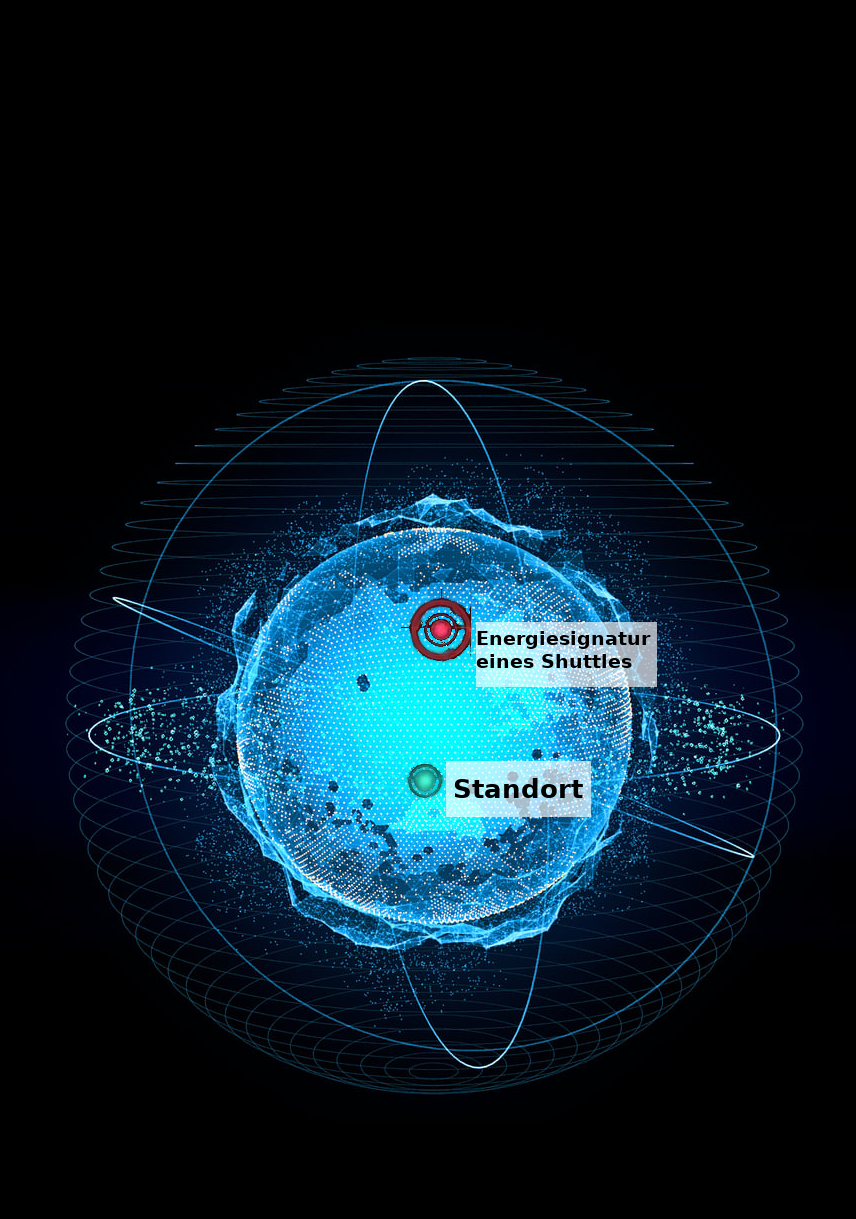
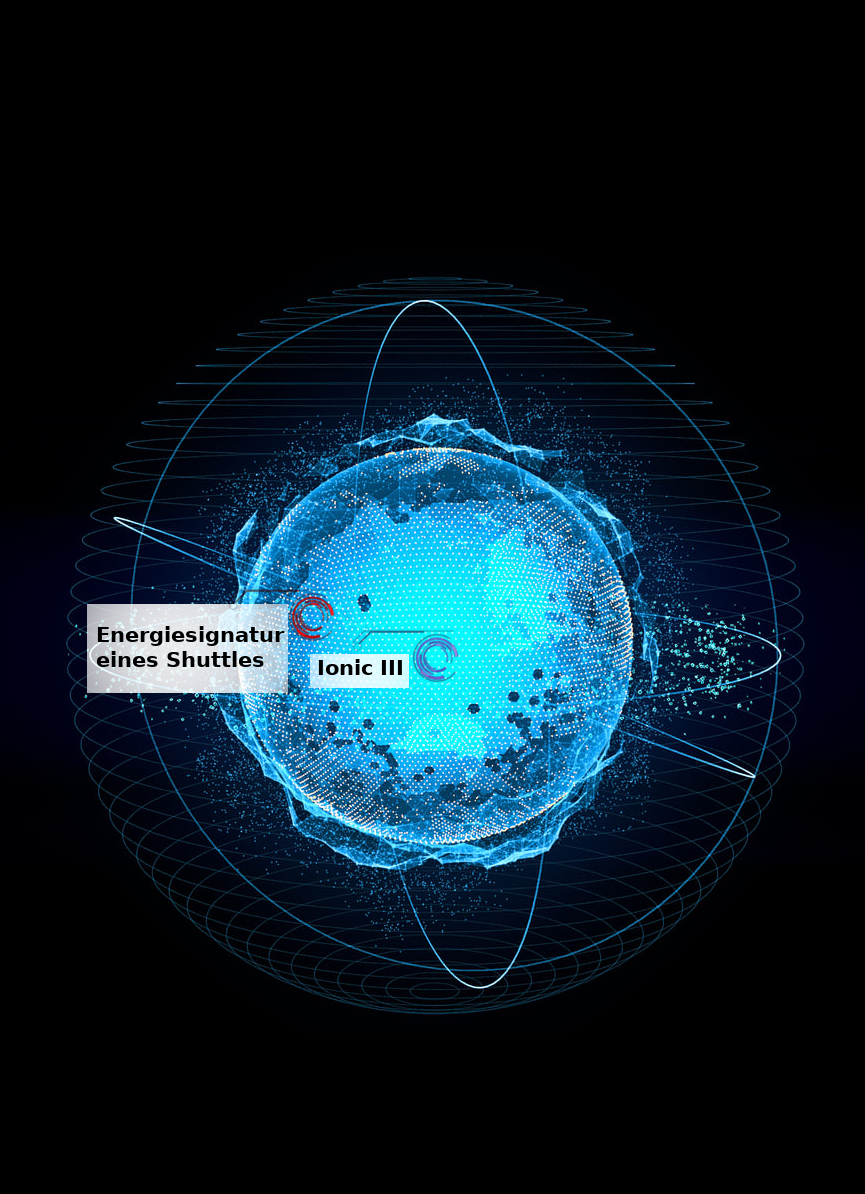
Implemented planet map.

Changed region(s): [[0.0607, 0.2169, 0.9416, 0.8987]]

diff --git a/src/app/home/home.page.ts b/src/app/home/home.page.ts
@@ -13,6 +13,11 @@ export class HomePage {
   private debug = true;
   private codes: Map<string, Code>;
 
+  private defaultMapCode = 2468;
+  private scienceMapCode = 2349;
+  private shuttleMapCode = 2854;
+  private completeMapCode = 2000;
+
   private codeAttributes = new Map<string, [string, string]>([
     ['shuttle-map', ['Karte des Space-Shuttles "Ionic III"', '../../assets/img/space_shuttle_map.png']],
     ['weapon-locker', ['Auf Waffenschrank zugreifen', '../../assets/img/weapon-locker.png']],
@@ -20,7 +25,8 @@ export class HomePage {
     ['planet-information', ['Notiz des Captains: Informationen über den Planeten ', '']],
     ['surrounding-information', ['Ergebnisse des Umgebungsscanners ', '../../assets/img/scanner-result.png']],
     ['science-map', ['Karte der Forschungsstation', '../../assets/img/scanner.png']],
-    ['science-log', ['Technischer Eintrag (Verfasser unbekannt)', '']]
+    ['science-log', ['Technischer Eintrag (Verfasser unbekannt)', '']],
+    ['map-page', ['Karte des Planeten', '../../assets/img/map_default.png']]
   ]);
 
   constructor(private alertController: AlertController,
@@ -96,6 +102,26 @@ export class HomePage {
         return;
       }
     });
+    if (code == this.defaultMapCode) {
+      this.glados.setDefaultMap();
+      await this.showMapChangedAlert();
+      return;
+    }
+    if (code == this.scienceMapCode) {
+      this.glados.setScienceMap();
+      await this.showMapChangedAlert();
+      return;
+    }
+    if (code == this.shuttleMapCode) {
+      this.glados.setShuttleMap();
+      await this.showMapChangedAlert();
+      return;
+    }
+    if (code == this.completeMapCode) {
+      this.glados.setCompleteMap();
+      await this.showMapChangedAlert();
+      return;
+    }
     const failAlert = await this.alertController.create({
       header: 'Code nicht erkannt.',
       buttons: [
@@ -107,6 +133,20 @@ export class HomePage {
     });
 
     await failAlert.present();
+  }
+
+  private async showMapChangedAlert() {
+    const alert = await this.alertController.create({
+      header: 'Karte aktualisiert.',
+      message: 'Die Karte wurde aktualisiert.',
+      buttons: [
+        {
+          text: 'OK',
+          role: 'cancel'
+        }
+      ]
+    });
+    await alert.present();
   }
 
   private goToPage(code: Code) {

diff --git a/src/app/glados.service.ts b/src/app/glados.service.ts
@@ -6,6 +6,11 @@ import {Code} from './models/Code';
 })
 export class GladosService {
 
+  public default = true;
+  public science = false;
+  public shuttle = false;
+  public complete = false;
+
   public codes = new Map<string, Code>([
     ['shuttle-map', new Code(1111, '/shuttle-map')],
     ['weapon-locker', new Code(4368, '/weapon-locker', 'Sie können sich über das PDA mit dem Waffenschrank verbinden.')],
@@ -13,9 +18,37 @@ export class GladosService {
     ['planet-information', new Code(2348, '/planet-information')],
     ['surrounding-information', new Code(6124, '/surrounding-information')],
     ['science-map', new Code(8935, '/science-map')],
-    ['science-log', new Code(1356, '/science-log')]
+    ['science-log', new Code(1356, '/science-log')],
+    ['map-page', new Code(3215, '/map-page')]
   ]);
 
   constructor() {
+  }
+
+  public setDefaultMap() {
+    this.resetMap();
+    this.default = true;
+  }
+
+  public setScienceMap() {
+    this.resetMap();
+    this.science = true;
+  }
+
+  public setShuttleMap() {
+    this.resetMap();
+    this.shuttle = true;
+  }
+
+  public setCompleteMap() {
+    this.resetMap();
+    this.complete = true;
+  }
+
+  private resetMap() {
+    this.default = false;
+    this.science = false;
+    this.shuttle = false;
+    this.complete = false;
   }
 }

diff --git a/src/app/map-page/map-page.page.spec.ts b/src/app/map-page/map-page.page.spec.ts
@@ -1,0 +1,27 @@
+import { CUSTOM_ELEMENTS_SCHEMA } from '@angular/core';
+import { async, ComponentFixture, TestBed } from '@angular/core/testing';
+
+import { MapPagePage } from './map-page.page';
+
+describe('MapPagePage', () => {
+  let component: MapPagePage;
+  let fixture: ComponentFixture<MapPagePage>;
+
+  beforeEach(async(() => {
+    TestBed.configureTestingModule({
+      declarations: [ MapPagePage ],
+      schemas: [CUSTOM_ELEMENTS_SCHEMA],
+    })
+    .compileComponents();
+  }));
+
+  beforeEach(() => {
+    fixture = TestBed.createComponent(MapPagePage);
+    component = fixture.componentInstance;
+    fixture.detectChanges();
+  });
+
+  it('should create', () => {
+    expect(component).toBeTruthy();
+  });
+});

diff --git a/src/app/app-routing.module.ts b/src/app/app-routing.module.ts
@@ -10,7 +10,8 @@ const routes: Routes = [
   { path: 'planet-information', loadChildren: './planet-information/planet-information.module#PlanetInformationPageModule' },
   { path: 'surrounding-information', loadChildren: './surrounding-information/surrounding-information.module#SurroundingInformationPageModule' },
   { path: 'science-map', loadChildren: './science-map/science-map.module#ScienceMapPageModule' },
-  { path: 'science-log', loadChildren: './science-log/science-log.module#ScienceLogPageModule' }
+  { path: 'science-log', loadChildren: './science-log/science-log.module#ScienceLogPageModule' },
+  { path: 'map-page', loadChildren: './map-page/map-page.module#MapPagePageModule' }
 ];
 
 @NgModule({

diff --git a/src/app/map-page/map-page.module.ts b/src/app/map-page/map-page.module.ts
@@ -1,0 +1,26 @@
+import { NgModule } from '@angular/core';
+import { CommonModule } from '@angular/common';
+import { FormsModule } from '@angular/forms';
+import { Routes, RouterModule } from '@angular/router';
+
+import { IonicModule } from '@ionic/angular';
+
+import { MapPagePage } from './map-page.page';
+
+const routes: Routes = [
+  {
+    path: '',
+    component: MapPagePage
+  }
+];
+
+@NgModule({
+  imports: [
+    CommonModule,
+    FormsModule,
+    IonicModule,
+    RouterModule.forChild(routes)
+  ],
+  declarations: [MapPagePage]
+})
+export class MapPagePageModule {}

diff --git a/src/app/map-page/map-page.page.scss b/src/app/map-page/map-page.page.scss
@@ -1,0 +1,19 @@
+.default {
+  --background: #fff url('../../assets/img/map_default.png') no-repeat center center / cover;
+
+}
+
+.science {
+  --background: #fff url('../../assets/img/map_science.png') no-repeat center center / cover;
+
+}
+
+.shuttle {
+  --background: #fff url('../../assets/img/map_shuttle.png') no-repeat center center / cover;
+
+}
+
+.complete {
+  --background: #fff url('../../assets/img/map_complete.png') no-repeat center center / cover;
+
+}

diff --git a/src/app/map-page/map-page.page.html b/src/app/map-page/map-page.page.html
@@ -1,0 +1,14 @@
+<ion-header>
+  <ion-toolbar>
+    <ion-buttons slot="start">
+      <ion-back-button defaultHref="home" text="Zurück"></ion-back-button>
+    </ion-buttons>
+    <ion-title>Karte des Planeten</ion-title>
+  </ion-toolbar>
+</ion-header>
+
+
+<ion-content [class.default]="glados.default" [class.science]="glados.science" [class.shuttle]="glados.shuttle" [class.complete]="glados.complete">
+
+</ion-content>
+

diff --git a/src/app/map-page/map-page.page.ts b/src/app/map-page/map-page.page.ts
@@ -1,0 +1,16 @@
+import { Component, OnInit } from '@angular/core';
+import {GladosService} from '../glados.service';
+
+@Component({
+  selector: 'app-map-page',
+  templateUrl: './map-page.page.html',
+  styleUrls: ['./map-page.page.scss'],
+})
+export class MapPagePage implements OnInit {
+
+  constructor(public glados: GladosService) { }
+
+  ngOnInit() {
+  }
+
+}
